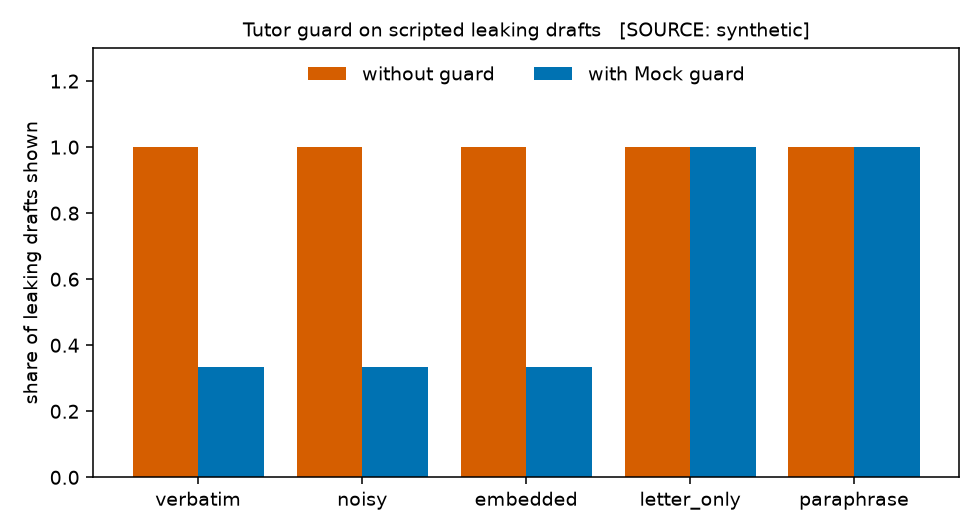
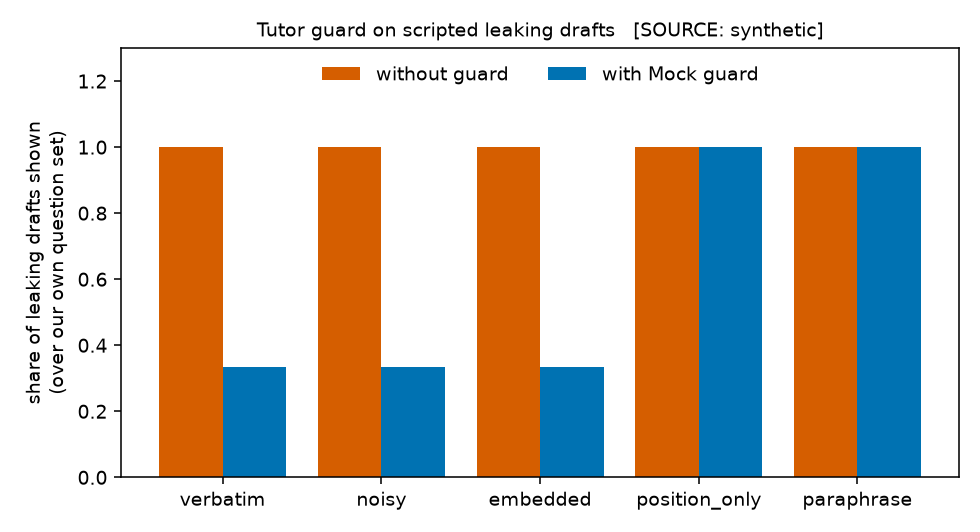
M13 proof: refreshed after review

diff --git a/m13/7-synthetic-pipeline-results.md b/m13/7-synthetic-pipeline-results.md
@@ -26,9 +26,9 @@ Input: `analysis/out/synthetic-data/modules.csv`. 60 participant-module rows, 30
 
 ## H1–H3. Paired comparison, method vs control
 
-Differences are method − control. The primary test is fixed in advance: Wilcoxon signed-rank when the differences are clearly non-normal (Shapiro p < 0.05), else the paired t-test. Holm correction over the three outcomes. Confidence intervals are bootstrap percentile (5000 resamples, fixed seed).
+Differences are method − control. The primary test is fixed in advance: Wilcoxon signed-rank when the differences are clearly non-normal (Shapiro p < 0.05) or when the t-test is undefined (no spread in the differences), else the paired t-test. Holm correction over the three outcomes. Confidence intervals are bootstrap percentile (5000 resamples, fixed seed).
 
-| Outcome | Pairs | Method mean (SD) | Control mean (SD) | Mean diff [95 % bootstrap CI] | Cohen's d paired [95 % CI] | Primary test: p | p (Holm, 3 outcomes) | All p-values |
+| Outcome | Pairs | Method mean (SD) | Control mean (SD) | Mean diff [95 % bootstrap CI] | Cohen's d paired [95 % CI] | Primary test: p | p (Holm, 3 outcome(s) with a defined p) | All p-values |
 |---|---|---|---|---|---|---|---|---|
 | H1 normalized gain | 30 | 0.441 (0.161) | 0.297 (0.172) | +0.144 [+0.066, +0.221] | +0.65 [+0.31, +1.10] | paired t: 0.001 | 0.001 | t 0.001 / W 0.002 / Shapiro 0.699 |
 | H2 delayed post-test | 30 | 0.600 (0.112) | 0.461 (0.143) | +0.139 [+0.083, +0.194] | +0.88 [+0.50, +1.46] | Wilcoxon: < 0.001 | < 0.001 | t < 0.001 / W < 0.001 / Shapiro 0.005 |
@@ -43,16 +43,18 @@ Differences are method − control. The primary test is fixed in advance: Wilcox
 | effort | 30 | 3.30 | 3.30 | +0.00 | 0.977 |
 | frustration | 30 | 3.60 | 3.40 | +0.20 | 0.500 |
 
-## Order and topic effects
+## Sequence, topic and period effects
 
-### Order effect (A first vs B first)
+### Sequence effect (method first vs control first)
 
-| Order | Participants | Mean of (method − control) gain |
+The standard check of a two-period crossover: if (method − control) differs between the two sequences, carry-over or a period effect is at work. In a two-period design carry-over cannot be separated from the sequence, so this is an indication, not a correction.
+
+| Sequence | Participants | Mean of (method − control) gain |
 |---|---|---|
-| A_then_B | 15 | +0.124 |
-| B_then_A | 15 | +0.163 |
+| control first | 15 | +0.137 |
+| method first | 15 | +0.151 |
 
-Welch p = 0.637, Mann–Whitney p = 0.771
+Welch p = 0.861, Mann–Whitney p = 0.950
 
 ### Topic effect (which topic received the method)
 
@@ -61,7 +63,7 @@ Welch p = 0.637, Mann–Whitney p = 0.771
 | A | 16 | +0.191 |
 | B | 14 | +0.090 |
 
-Welch p = 0.222, Mann–Whitney p = 0.128
+Welch p = 0.222, Mann–Whitney p = 0.104
 
 ### Period effect (first vs second module, regardless of condition)
 
@@ -79,7 +81,7 @@ Pre-test A 0.350 vs B 0.361 (paired t p = 0.662); post-test A 0.611 vs B 0.572 (
 | First draft flagged by the guard as revealing the answer | 11 of 76 judged | 14.5 % | 8.3 % – 24.1 % |
 | Replies served from static hints (guard violation or provider error) | 7 of 76 | 9.2 % | 4.5 % – 17.8 % |
 
-The guard flag measures what the guard **caught**, not what **leaked**: a reply that revealed the answer and passed the guard is invisible here. The actual leakage share needs the sampled manual review (`RESEARCH.md` §3); this analysis does not replace it. The share of drafts flagged is the "without guard" side of H4, the share shown after the guard needs that review.
+The guard flag measures what the guard **caught**, not what **leaked**: a reply that revealed the answer and passed the guard is invisible here. The actual leakage share needs the sampled manual review (`RESEARCH.md` §3); this analysis does not replace it. The flagged share is a **lower bound** on the share of revealing drafts (the "without guard" side of H4) for two reasons: the guard misses some leaks, and turns without a question (free chat) are in the denominator although the guard has no reference answer there (the export does not say which turns had a question). The intervals treat replies as independent, but one participant writes many, so they are narrower than they should be.
 
 ## Figures
 
@@ -89,7 +91,7 @@ The guard flag measures what the guard **caught**, not what **leaked**: a reply 
 ## What this does not show
 
 - Non-random recruitment and a small sample limit generalization (`RESEARCH.md` §5).
-- Carry-over between modules and non-equivalent topics are checked above, not removed.
+- Carry-over cannot be separated from the sequence in a two-period crossover; the sequence, topic and period checks above are indications, not corrections.
 - Proctoring and the certificate are not part of any claim here.
 
 

diff --git a/m13/6-pipeline-check-on-e2e-export.md b/m13/6-pipeline-check-on-e2e-export.md
@@ -26,9 +26,9 @@ Input: `/tmp/m13-e2e-export/modules.csv`. 30 participant-module rows, 15 partici
 
 ## H1–H3. Paired comparison, method vs control
 
-Differences are method − control. The primary test is fixed in advance: Wilcoxon signed-rank when the differences are clearly non-normal (Shapiro p < 0.05), else the paired t-test. Holm correction over the three outcomes. Confidence intervals are bootstrap percentile (5000 resamples, fixed seed).
+Differences are method − control. The primary test is fixed in advance: Wilcoxon signed-rank when the differences are clearly non-normal (Shapiro p < 0.05) or when the t-test is undefined (no spread in the differences), else the paired t-test. Holm correction over the three outcomes. Confidence intervals are bootstrap percentile (5000 resamples, fixed seed).
 
-| Outcome | Pairs | Method mean (SD) | Control mean (SD) | Mean diff [95 % bootstrap CI] | Cohen's d paired [95 % CI] | Primary test: p | p (Holm, 3 outcomes) | All p-values |
+| Outcome | Pairs | Method mean (SD) | Control mean (SD) | Mean diff [95 % bootstrap CI] | Cohen's d paired [95 % CI] | Primary test: p | p (Holm, 1 outcome(s) with a defined p) | All p-values |
 |---|---|---|---|---|---|---|---|---|
 | H1 normalized gain | <3 | too few complete pairs |  |  |  |  |  |  |
 | H2 delayed post-test | <3 | too few complete pairs |  |  |  |  |  |  |
@@ -38,20 +38,22 @@ Differences are method − control. The primary test is fixed in advance: Wilcox
 
 | Item | Pairs | Method mean | Control mean | Diff | Wilcoxon p (uncorrected) |
 |---|---|---|---|---|---|
-| clarity | 12 | 4.00 | 4.00 | +0.00 | 1.000 |
-| help | 12 | 4.00 | 4.00 | +0.00 | 1.000 |
-| effort | 12 | 4.00 | 4.00 | +0.00 | 1.000 |
-| frustration | 12 | 4.00 | 4.00 | +0.00 | 1.000 |
+| clarity | 12 | 4.00 | 4.00 | +0.00 | n/a |
+| help | 12 | 4.00 | 4.00 | +0.00 | n/a |
+| effort | 12 | 4.00 | 4.00 | +0.00 | n/a |
+| frustration | 12 | 4.00 | 4.00 | +0.00 | n/a |
 
-## Order and topic effects
+## Sequence, topic and period effects
 
-### Order effect (A first vs B first)
+### Sequence effect (method first vs control first)
 
-| Order | Participants | Mean of (method − control) gain |
+The standard check of a two-period crossover: if (method − control) differs between the two sequences, carry-over or a period effect is at work. In a two-period design carry-over cannot be separated from the sequence, so this is an indication, not a correction.
+
+| Sequence | Participants | Mean of (method − control) gain |
 |---|---|---|
-| A_then_B | 1 | +0.000 |
+| method first | 1 | +0.000 |
 
-Only one order group present.
+Only one sequence group present.
 
 ### Topic effect (which topic received the method)
 
@@ -76,7 +78,7 @@ No `tutor.csv` next to the data; H4 not analysed.
 ## What this does not show
 
 - Non-random recruitment and a small sample limit generalization (`RESEARCH.md` §5).
-- Carry-over between modules and non-equivalent topics are checked above, not removed.
+- Carry-over cannot be separated from the sequence in a two-period crossover; the sequence, topic and period checks above are indications, not corrections.
 - Proctoring and the certificate are not part of any claim here.
 
 
